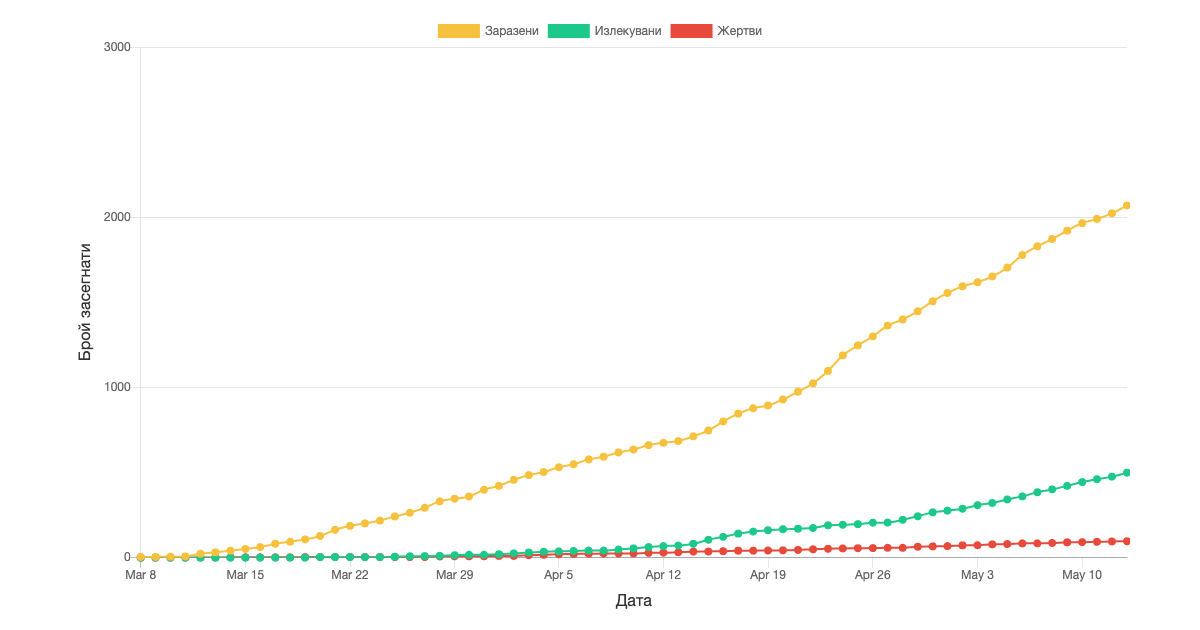
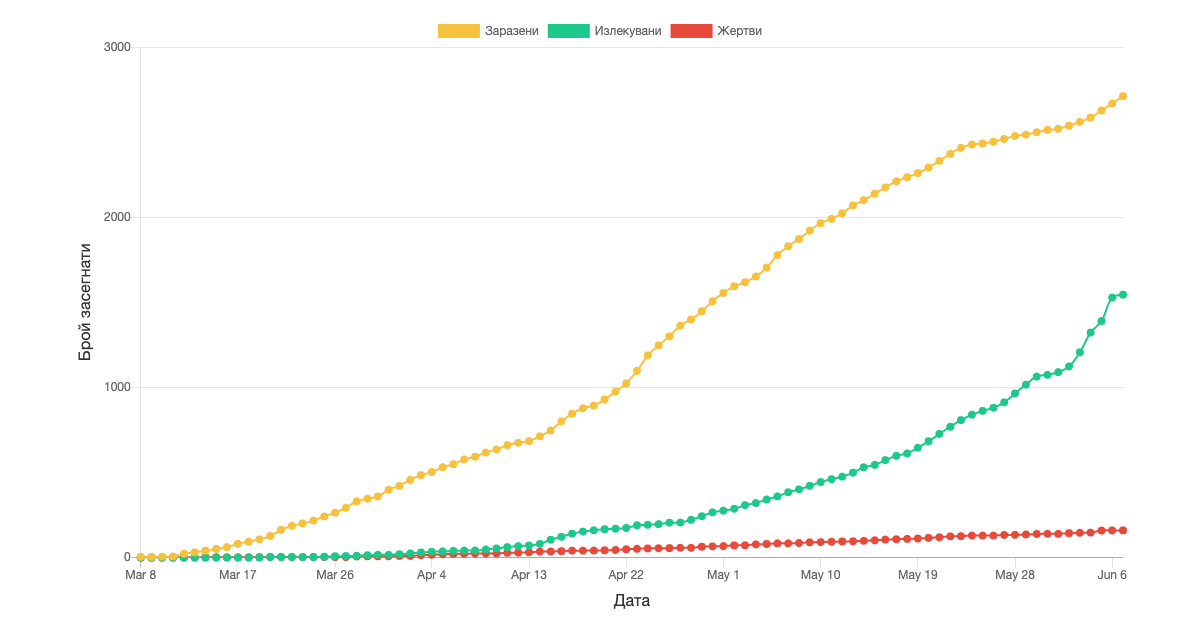
Added active cases linechart and pcr tests reporting.

diff --git a/components/CasesOverview.js b/components/CasesOverview.js
@@ -14,19 +14,21 @@ const CasesOverview = (props) => {
   const currentDate = moment(totalsData.timestamp, 'YYYY-MM-DD HH:mm:ss ZZ').format('YYYY-MM-DD');
   const yesterdayDate = moment(totalsData.timestamp, 'YYYY-MM-DD HH:mm:ss ZZ').subtract(1, 'days').format('YYYY-MM-DD');
 
-  const infectedToday = dateDiffCasesData['infected'][currentDate].cases;
-  const curedToday = dateDiffCasesData['cured'][currentDate].cases;
-  const fatalToday = dateDiffCasesData['fatal'][currentDate].cases;
-  const hospitalizedToday = dateDiffCasesData['hospitalized'][currentDate].cases;
-  const intensiveCareToday = dateDiffCasesData['intensive_care'][currentDate].cases;
-  const medicalStaffToday = dateDiffCasesData['medical_staff'][currentDate].cases;
+  const infectedToday = dateDiffCasesData.infected[currentDate].cases;
+  const curedToday = dateDiffCasesData.cured[currentDate].cases;
+  const fatalToday = dateDiffCasesData.fatal[currentDate].cases;
+  const hospitalizedToday = dateDiffCasesData.hospitalized[currentDate].cases;
+  const intensiveCareToday = dateDiffCasesData.intensive_care[currentDate].cases;
+  const medicalStaffToday = dateDiffCasesData.medical_staff[currentDate].cases;
+  const pcrTestsToday = dateDiffCasesData.pcr_tests[currentDate].cases;
 
-  const infectedYesterday = dateDiffCasesData['infected'][yesterdayDate].cases;
-  const curedYesterday = dateDiffCasesData['cured'][yesterdayDate].cases;
-  const fatalYesterday = dateDiffCasesData['fatal'][yesterdayDate].cases;
-  const hospitalizedYesterday = dateDiffCasesData['hospitalized'][yesterdayDate].cases;
-  const intensiveCareYesterday = dateDiffCasesData['intensive_care'][yesterdayDate].cases;
-  const medicalStaffYesterday = dateDiffCasesData['medical_staff'][yesterdayDate].cases;
+  const infectedYesterday = dateDiffCasesData.infected[yesterdayDate].cases;
+  const curedYesterday = dateDiffCasesData.cured[yesterdayDate].cases;
+  const fatalYesterday = dateDiffCasesData.fatal[yesterdayDate].cases;
+  const hospitalizedYesterday = dateDiffCasesData.hospitalized[yesterdayDate].cases;
+  const intensiveCareYesterday = dateDiffCasesData.intensive_care[yesterdayDate].cases;
+  const medicalStaffYesterday = dateDiffCasesData.medical_staff[yesterdayDate].cases;
+  const pcrTestsYesterday = dateDiffCasesData.pcr_tests[yesterdayDate].cases;
 
   const calculateDiff = (casesToday, casesYesterday) => (casesYesterday < 0 ? casesToday : casesToday - casesYesterday);
 
@@ -67,7 +69,7 @@ const CasesOverview = (props) => {
         </Col>
       </Row>
       <Row>
-        <Col md={4} className="mb-4">
+        <Col md={3} className="mb-4">
           <OverviewCard
             title={t('home:charts.medical_staff')}
             value={totalsData.medical_staff}
@@ -78,7 +80,7 @@ const CasesOverview = (props) => {
           />
         </Col>
 
-        <Col md={4} className="mb-4">
+        <Col md={3} className="mb-4">
           <OverviewCard
             title={t('home:charts.hospitalized')}
             value={totalsData.hospitalized}
@@ -89,13 +91,24 @@ const CasesOverview = (props) => {
           />
         </Col>
 
-        <Col md={4} className="mb-4">
+        <Col md={3} className="mb-4">
           <OverviewCard
             title={t('home:charts.intensive_care')}
             value={totalsData.intensive_care}
             today={intensiveCareToday}
             diff={calculateDiff(intensiveCareToday, intensiveCareYesterday)}
             icon="fa-procedures"
+            variant="primary"
+          />
+        </Col>
+
+        <Col md={3} className="mb-4">
+          <OverviewCard
+            title={t('home:charts.pcr_tests')}
+            value={totalsData.pcr_tests}
+            today={pcrTestsToday}
+            diff={calculateDiff(pcrTestsToday, pcrTestsYesterday)}
+            icon="fa-vials"
             variant="primary"
           />
         </Col>
@@ -112,6 +125,7 @@ CasesOverview.propTypes = {
     hospitalized: PropTypes.number,
     intensive_care: PropTypes.number,
     medical_staff: PropTypes.number,
+    pcr_tests: PropTypes.number,
     timestamp: PropTypes.string,
   }).isRequired,
   dateDiffCasesData: PropTypes.shape({
@@ -121,6 +135,7 @@ CasesOverview.propTypes = {
     hospitalized: PropTypes.object,
     intensive_care: PropTypes.object,
     medical_staff: PropTypes.object,
+    pcr_tests: PropTypes.object,
   }).isRequired,
 };
 

diff --git a/pages_/index.js b/pages_/index.js
@@ -16,8 +16,8 @@ import BaseLayout from '../components/BaseLayout';
 import CasesOverview from '../components/CasesOverview';
 import CasesLineChart from '../components/CasesLineChart';
 import CasesBarChart from '../components/CasesBarChart';
-import CasesGenderPieChart from '../components/CasesGenderPieChart';
 import CasesPieChart from '../components/CasesPieChart';
+import ActiveCasesLineChart from '../components/ActiveCasesLineChart';
 
 const Index = () => {
   const { t } = useTranslation();
@@ -25,6 +25,7 @@ const Index = () => {
   const [totalsData, setTotalsData] = useState({});
   const [dateCasesData, setDateCasesData] = useState({});
   const [dateDiffCasesData, setDateDiffCasesData] = useState({});
+  const [dateActiveCasesData, setDateActiveCasesData] = useState({});
 
   const prepareChartData = (dataset) => {
     if (dataset == null) return [];
@@ -43,6 +44,9 @@ const Index = () => {
 
         const dateDiffCasesDataset = await fetch('https://raw.githubusercontent.com/COVID-19-Bulgaria/covid-database/master/Bulgaria/DateDiffCasesDataset.json');
         setDateDiffCasesData(await dateDiffCasesDataset.json());
+
+        const dateActiveCasesDataset = await fetch('https://raw.githubusercontent.com/COVID-19-Bulgaria/covid-database/master/Bulgaria/DateActiveCasesDataset.json');
+        setDateActiveCasesData(await dateActiveCasesDataset.json());
 
         setIsLoading(false);
       } catch (error) {
@@ -64,6 +68,8 @@ const Index = () => {
     { name: t('home:charts.cured'), data: prepareChartData(dateDiffCasesData.cured) },
     { name: t('home:charts.fatal'), data: prepareChartData(dateDiffCasesData.fatal) },
   ];
+
+  const activeCasesLineChartData = prepareChartData(dateActiveCasesData.active);
 
   return (
     <BaseLayout>
@@ -124,10 +130,10 @@ const Index = () => {
                 <Col md={6}>
                   <Card className="shadow mb-4">
                     <Card.Header className="py-3 d-flex flex-row align-items-center justify-content-between">
-                      <h6 className="m-0 font-weight-bold text-primary">{t('home:charts.cases_gender_piechart.title')}</h6>
+                      <h6 className="m-0 font-weight-bold text-primary">{t('home:charts.active_cases_linechart.title')}</h6>
                     </Card.Header>
                     <Card.Body>
-                      <CasesGenderPieChart infected={totalsData.infected} men={totalsData.men} women={totalsData.women} />
+                      <ActiveCasesLineChart data={activeCasesLineChartData} />
                     </Card.Body>
                   </Card>
                 </Col>

diff --git a/components/CasesMap/CasesMap.js b/components/CasesMap/CasesMap.js
@@ -4,15 +4,11 @@ import MapMarker from './MapMarker';
 import MapCustomizations from './MapCustomizations.json';
 
 const CasesMap = ({ data, ...rest }) => {
-  const tooltipText = (location, infected, cured, fatal) => (
+  const tooltipText = (location, infected) => (
     <>
       <strong>{location}</strong>
       <br />
       {`Заразени: ${infected}`}
-      <br />
-      {`Излекувани: ${cured}`}
-      <br />
-      {`Жертви: ${fatal}`}
       <br />
     </>
   );
@@ -23,8 +19,6 @@ const CasesMap = ({ data, ...rest }) => {
         Object.entries(data).map(([location, {
           coordinates,
           infected,
-          cured,
-          fatal,
         }]) => {
           let circleProps = {};
 
@@ -36,7 +30,7 @@ const CasesMap = ({ data, ...rest }) => {
             <MapMarker
               key={location}
               coordinates={coordinates}
-              tooltip={tooltipText(location, infected, cured, fatal)}
+              tooltip={tooltipText(location, infected)}
               circleProps={circleProps}
             />
           );

diff --git a/components/ActiveCasesLineChart.js b/components/ActiveCasesLineChart.js
@@ -1,0 +1,27 @@
+import React from 'react';
+import PropTypes from 'prop-types';
+import { LineChart } from 'react-chartkick';
+import 'chart.js';
+import useTranslation from 'next-translate/useTranslation';
+
+const ActiveCasesLineChart = (props) => {
+  const { data, ...rest } = props;
+  const { t } = useTranslation();
+
+  return (
+    <LineChart
+      data={data}
+      xtitle={t('home:charts.active_cases_linechart.xtitle')}
+      ytitle={t('home:charts.active_cases_linechart.ytitle')}
+      colors={['#f6c23e', '#1cc88a', '#e74a3b']}
+      download={{ background: '#ffffff', filename: 'COVID-19-Bulgaria_ActiveCasesLineChart' }}
+      {...rest}
+    />
+  );
+};
+
+ActiveCasesLineChart.propTypes = {
+  data: PropTypes.array.isRequired,
+};
+
+export default ActiveCasesLineChart;
